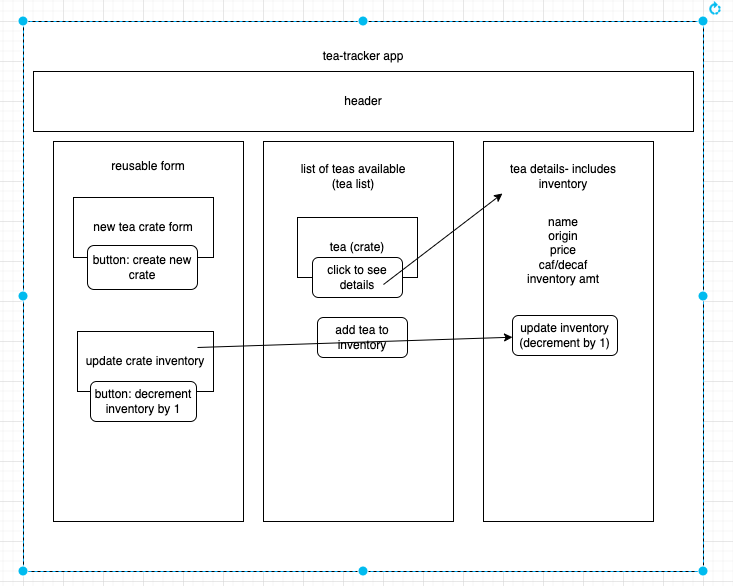
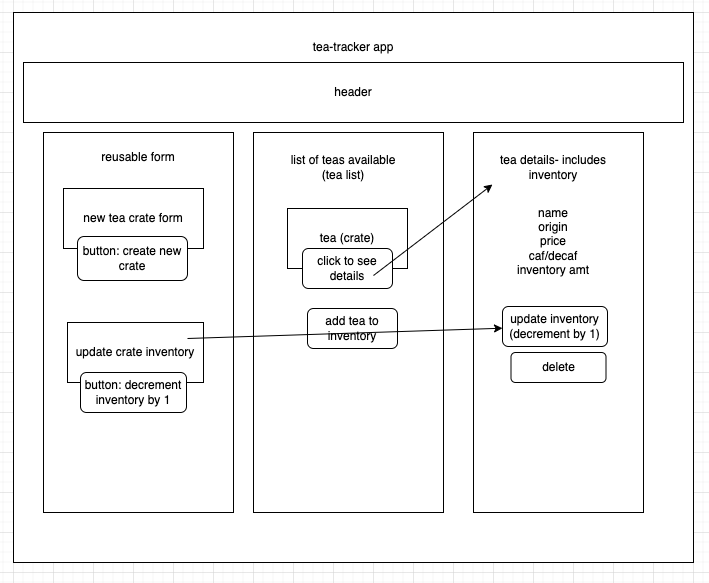
Add TeaDetail.js

diff --git a/src/components/TeaDetail.js b/src/components/TeaDetail.js
@@ -1,0 +1,29 @@
+import React from "react";
+import PropTypes from "prop-types";
+
+function TeaDetail(props){
+  const { tea, onClickingDelete } = props;
+
+  return(
+    <React.Fragment>
+      <h1>Tea Details</h1>
+      <h3>Name: {props.name}</h3>
+      <p>Origin: {props.origin}</p>
+      <p>Caf/Decaf: {props.caf}</p>
+      <p>Price: {props.price}</p>
+      <p>Inventory: {props.inventory}</p>
+      <button class="btn btn-light" onClick={ props.onClickingEdit }>Update inventory</button>
+      <br />
+      <button class="btn btn-light" onClick={()=> onClickingDelete(tea.id) }>Delete this tea</button>
+      <hr/>
+    </React.Fragment>
+  );
+}
+
+TeaDetail.propTypes = {
+  tea: PropTypes.object,
+  onClickingDelete: PropTypes.func,
+  onClickingEdit: PropTypes.func
+}
+
+export default TeaDetail;
